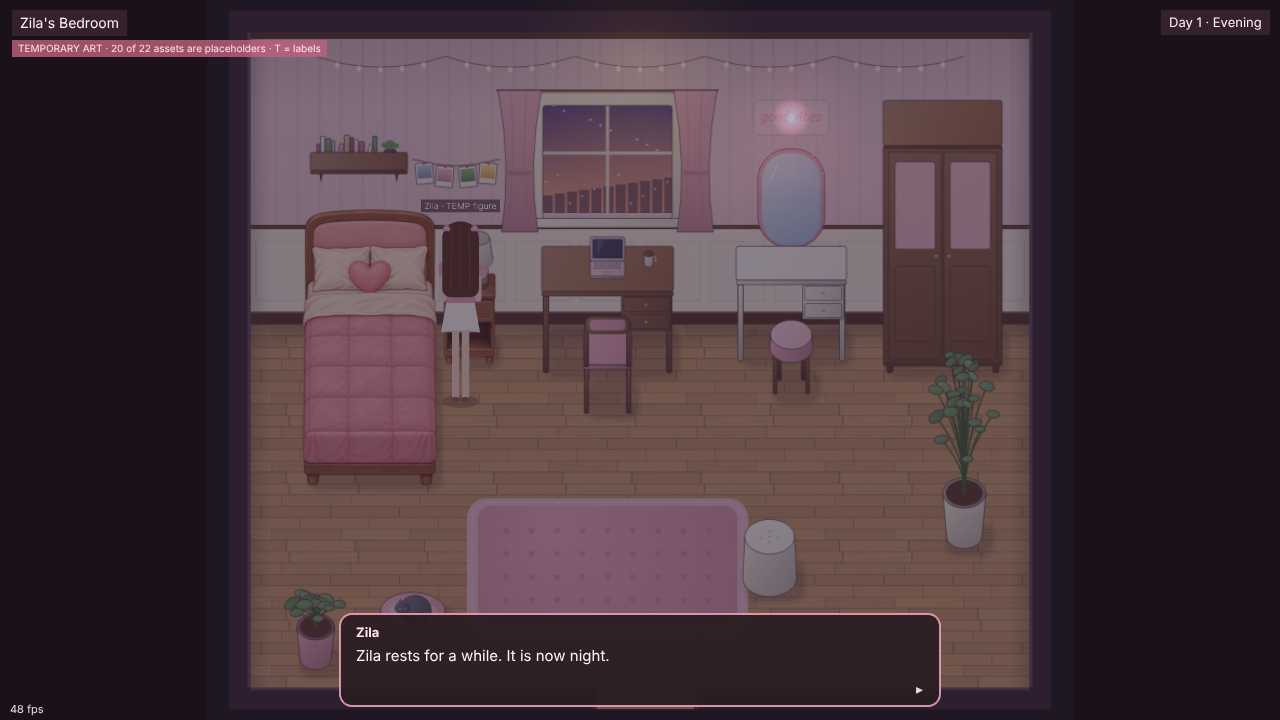
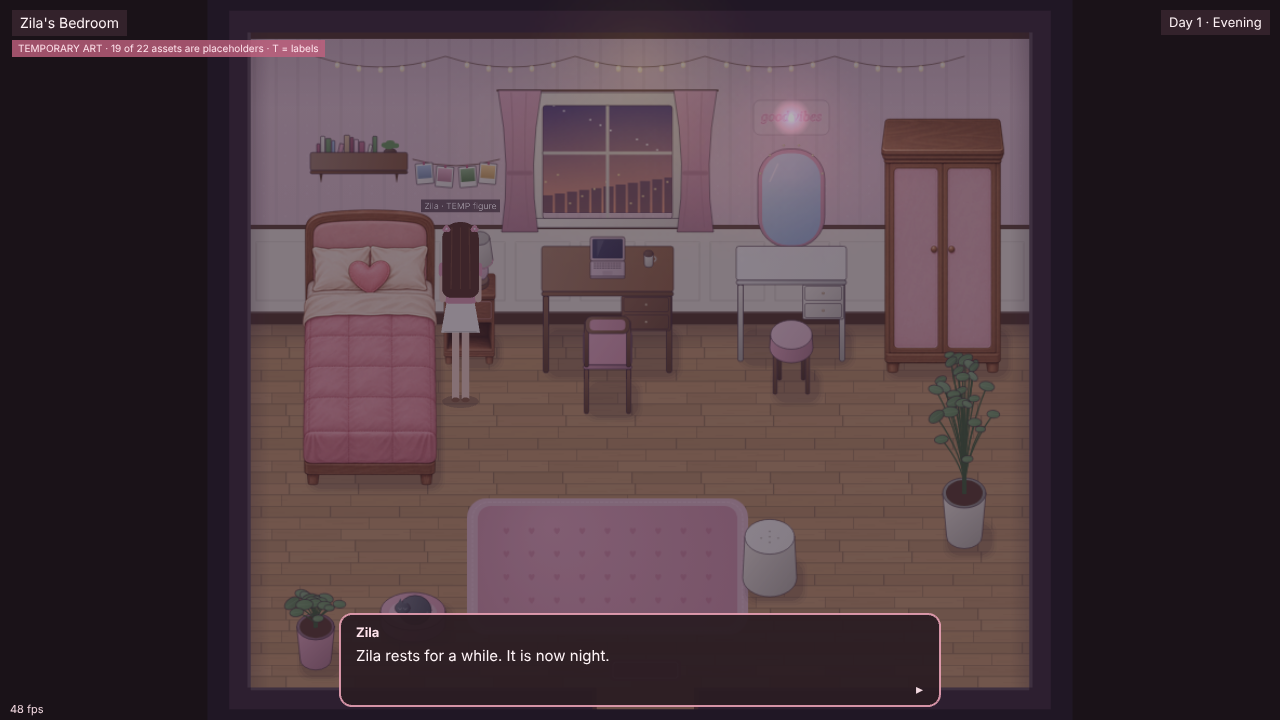
feat(prop_wardrobe_zila): approve v001 (CD VISUAL PASS, geometry exception)
- Integrates ONLY the wardrobe from PR #7 (commit 48bce5b): its submission, raw source,
  approved master (byte-identical, sha256 c54e4198…) and HD/SD runtime WebP. PR #7 is not
  merged; desk, chair, vanity, stool and the lamp stay unapproved ('requested').
- approve-asset.mjs: new --geometry-exception <json> records CD-accepted deviations in the
  manifest approval. Wardrobe: front face −1.8 % (ok), top-plane depth −33 % (accepted),
  slight top convergence — measured to the top-plane rim during integration
- Ownership: an integration branch may carry a submission only for the exact version the
  same diff approves (unit-tested, incl. refusal for unapproved desk files)
- e2e: approved wardrobe texture renders, collides, keeps its outfit interaction; all other
  Batch B assets must still be TEMP; approved set read from the manifest

Claude-Session: https://claude.ai/code/session_01P67KtqJMN8ARmJbwhSuoYs

Changed region(s): [[0.6875, 0.1222, 0.7812, 0.5194], [0.0938, 0.0611, 0.25, 0.0917]]

diff --git a/tests/e2e/approved-assets.spec.ts b/tests/e2e/approved-assets.spec.ts
@@ -34,6 +34,33 @@ test.describe('approved asset regression', () => {
     expect(errors).toEqual([]);
   });
 
+  test('approved wardrobe renders, collides and still changes outfits', async ({ page, isMobile }) => {
+    const errors = await boot(page);
+    const w = await page.evaluate(() => {
+      const g = (window as any).__ZS_GAME;
+      if (!g.textures.exists('asset:prop_wardrobe_zila')) return null;
+      const img = g.textures.get('asset:prop_wardrobe_zila').getSourceImage();
+      return { w: img.width, h: img.height };
+    });
+    expect(w, 'approved wardrobe texture loaded').not.toBeNull();
+    expect(w!.h / w!.w).toBeCloseTo(544 / 272, 2);
+    const s: any = await state(page);
+    expect(s.props.find((p: any) => p.key.startsWith('prop_wardrobe_zila#')).art).toBe('approved');
+    for (const id of ['prop_desk_zila', 'prop_chair_desk', 'prop_vanity_zila', 'prop_stool_vanity', 'prop_lamp_zila'])
+      expect(s.props.find((p: any) => p.key.startsWith(id + '#')).art, `${id} must stay TEMP`).toBe('temp');
+    await teleport(page, 640, 94);                                   // wardrobe interaction spot
+    await page.waitForTimeout(200);
+    expect((await state(page)).nearest).toMatch(/^prop_wardrobe_zila#\d+:outfit$/);
+    if (!isMobile) {
+      await page.keyboard.down('ArrowUp'); await page.waitForTimeout(600); await page.keyboard.up('ArrowUp');
+      expect((await state(page)).player.y).toBeGreaterThanOrEqual(64 + 16 - 0.5);   // stops at the wardrobe front
+    }
+    await teleport(page, 560, 260);
+    await page.waitForTimeout(500);
+    await page.screenshot({ path: `${SHOTS}/${isMobile ? 'mobile' : 'desktop'}-09-approved-wardrobe.png` });
+    expect(errors).toEqual([]);
+  });
+
   test('nightstand blocks movement and has its own interaction', async ({ page, isMobile }) => {
     test.skip(isMobile, 'desktop only');
     await boot(page);

diff --git a/tests/unit/pipeline.test.ts b/tests/unit/pipeline.test.ts
@@ -80,6 +80,14 @@ describe('ownership policy', () => {
     expect(ownershipViolations('codex/art/batch-b-r1', ['src/main.ts'])).toHaveLength(1);
     expect(ownershipViolations('codex/art/batch-z-r1', [])).toHaveLength(1);
   });
+  it('an integration branch may carry the submission of an asset it approves — and nothing else', () => {
+    const wardrobe = ['art/submissions/prop_wardrobe_zila/v001/prop_wardrobe_zila_v001.png', 'art/source/prop_wardrobe_zila/v001/candidate-a.png', 'art/approved/prop_wardrobe_zila/prop_wardrobe_zila_v001.png'];
+    expect(ownershipViolations('claude/integrate-wardrobe-v001', wardrobe)).toEqual([]);
+    // the desk is NOT approved: carrying its submission must be refused
+    expect(ownershipViolations('claude/integrate-wardrobe-v001', [...wardrobe, 'art/submissions/prop_desk_zila/v001/prop_desk_zila_v001.png'])).toHaveLength(1);
+    // without the approved master in the same diff it is not an integration
+    expect(ownershipViolations('claude/x', ['art/submissions/prop_wardrobe_zila/v001/metadata.json'])).toHaveLength(1);
+  });
   it('rejects malformed codex branch names and non-codex submission edits', () => {
     expect(ownershipViolations('codex/bed', [])).toHaveLength(1);
     expect(ownershipViolations('claude/feature', ['art/submissions/prop_bed_zila/v001/x.png'])).toHaveLength(1);

diff --git a/tests/e2e/bedroom-slice.spec.ts b/tests/e2e/bedroom-slice.spec.ts
@@ -22,7 +22,11 @@ test.describe('bedroom vertical slice', () => {
     const errors = await boot(page);
     const s: any = await state(page);
     expect(s.props.filter((p: any) => p.art === 'greybox').map((p: any) => p.key)).toEqual([]);
-    expect(s.props.filter((p: any) => p.art === 'approved').map((p: any) => p.key.split('#')[0]).sort()).toEqual(['prop_bed_zila', 'prop_nightstand_zila']);
+    // exactly the manifest's approved assets render as approved art; everything else is labelled TEMP
+    const manifest = JSON.parse(readFileSync('public/assets/manifest.json', 'utf8'));
+    const approved = Object.entries(manifest.assets).filter(([, e]: any) => e.status === 'approved').map(([id]) => id);
+    const inRoom = [...new Set(s.props.map((p: any) => p.key.split('#')[0]))];
+    expect(s.props.filter((p: any) => p.art === 'approved').map((p: any) => p.key.split('#')[0]).sort()).toEqual(approved.filter((id) => inRoom.includes(id)).sort());
     expect(s.displayObjects).toBeLessThan(150);
     await teleport(page, 365, 300);
     await page.waitForTimeout(500);

diff --git a/art/submissions/prop_wardrobe_zila/v001/notes.md b/art/submissions/prop_wardrobe_zila/v001/notes.md
@@ -1,0 +1,20 @@
+# prop_wardrobe_zila v001 review
+
+VISUAL PENDING. NOT PRODUCTION READY. Batch B round1; one original generated candidate for this asset. Wardrobe was generated first and selected as the batch finish reference; the four remaining assets were also conditioned on its fitted master. This is a working style reference, NOT a visual approval. Official approved bed and nightstand condition every asset. Measurements are manual approximate master-pixel readings, not a geometric certification.
+
+![Master](prop_wardrobe_zila_v001.png)
+
+## Raw candidates
+
+![candidate-a](../../../source/prop_wardrobe_zila/v001/candidate-a.png)
+
+## Measurements and limitations
+
+- Measured approximate top-plane backEdgeY50, frontEdgeY111, floor520. Front height409 vs420 (-2.6%, within10%); depth61 vs84 (-27.4%, just outside25%). Slight trapezoid convergence remains; crown lip is not counted as top plane.
+- Walnut and blush closely match approved furniture; large panel looks upholstered rather than unequivocally painted wood. Knob placement and crown thickness need visual review.
+
+## Reproduction
+
+Run npm ci, npm run validate:art and npm run gallery. The generated gallery is ignored, not committed; official PR CI uploads it when available. Existing gameplay screenshots are baseline evidence, not integration tests of this asset. Metadata records checksums and all references. No engine or approved asset changes.
+
+Local technical result: TECHNICAL PASS, 23 checks, no validator errors; coverage 0.669. Privacy and branch ownership checked separately. Official gallery inspected in Chromium; all114 images loaded. Both approved references were visually compared at the same2px/cm scale, with light/dark and SD views. Warm wood/pink/cream family is coherent; the geometry issues above remain unresolved. No visual approval is granted.

diff --git a/art/submissions/prop_wardrobe_zila/v001/prompt.md b/art/submissions/prop_wardrobe_zila/v001/prompt.md
@@ -1,0 +1,14 @@
+# Generation record
+
+Built-in image_gen.imagegen; model identifier not exposed. transparent_background=true for every call. No paid services. Exact conditioning references:
+
+- art/approved/prop_bed_zila/prop_bed_zila_v001.png
+- art/approved/prop_nightstand_zila/prop_nightstand_zila_v001.png
+- art-bible/perspective/prop_wardrobe_zila_template.png
+- art-bible/perspective/projection_cube.png
+
+## Candidate 1
+
+```text
+Original premium hand-painted HD 2D isolated game furniture, same artist and soft painted material finish as attached APPROVED bed and nightstand. Not photorealistic, not 3D render, no pixel art. Native transparent background. ZsRoom orthographic oblique: verticals vertical, TOP and FRONT only, no visible side faces or perspective convergence; floor depth 0.7. Warm walnut #8A5A3C shadows #5B3A29, blush #F4C7D3, cream #F6EBDD, colored fine contours, soft upper-left neutral daylight. No cast shadow, no floor, no room, no text. Templates are geometry guides ONLY, never reproduce guide colors/labels. Generate ONE two-door walnut WARDROBE only. Same furniture collection as approved bed/nightstand, blush-pink inset door panels, small round wood knobs, understated crown molding, low plinth and short sturdy feet. Soft long vertical walnut grain. Taller than a person:110cm wide60cm deep210cm high. Match template exactly: virtual272x544canvas, floor y520, main top front rim y100, back rim y16; body x26..246, moulding maxx22..250. Silhouette width228height504; deep visible TOP RECTANGLE84high with PARALLEL vertical edges, not trapezoid, above a square-on FRONT420high. Two tall doors below crown, no side faces. Pink panels echo bed inset without shiny padding. No extra decor. High resolution tall portrait; keep entire object inside image. No floor shadow.
+```

diff --git a/docs/reviews/prop_wardrobe_zila-v001.md b/docs/reviews/prop_wardrobe_zila-v001.md
@@ -1,0 +1,16 @@
+# Approval record — `prop_wardrobe_zila` v001
+
+**Creative Director decision:** VISUAL PASS — `prop_wardrobe_zila` v001 **only**. The shallow tabletop is an explicitly accepted geometry exception. This approval does not apply to the rest of Batch B (desk, chair, vanity and stool stay unapproved for round 2) or to the lamp.
+
+- **Source:** PR #7, commit `48bce5b`. Only the wardrobe's files were integrated; PR #7 was not merged as a whole.
+- **Master:** `art/submissions/prop_wardrobe_zila/v001/prop_wardrobe_zila_v001.png`, SHA-256 `c54e4198…dcbea00` (matches Codex's metadata).
+- **In-game review:** `docs/reviews/batch-b-r1-lamp-v001.md` ("Ready for visual approval").
+
+## Measured geometry (Art Bible §11, integration measurement)
+| Measure | Designed | Painted | Deviation | Tolerance |
+|---|---|---|---|---|
+| Front-face height (floor → top-plane front rim, y 107.5) | 210 cm | 206.3 cm | −1.8 % | ±10 % ✅ |
+| Top-plane depth (y 51 → y 107.5) | 60 cm (84 px) | 40.4 cm (56.5 px) | −33 % | ±25 % ❌ **accepted exception** |
+| Front vs back width of the top | equal | front ≈ 12 % wider | slight convergence | noted |
+
+Codex reported −27 % for the depth, measuring to the lip below the rim. Measured to the rim it is −33 %. Nothing is placed on top of the wardrobe, so no surface anchors are recorded.
